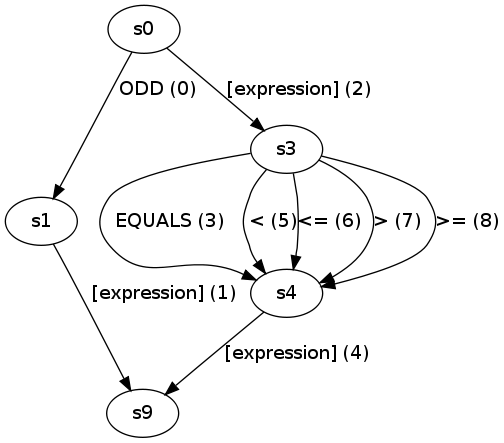
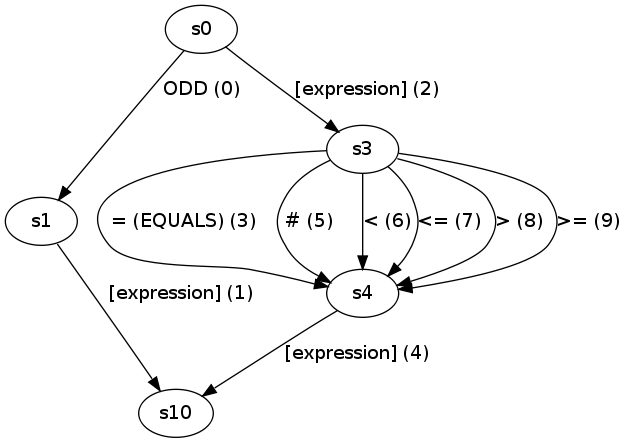
Add support for NotEqual operator

diff --git a/parser.cpp b/parser.cpp
@@ -191,15 +191,16 @@ Transition s_Factor[] = {
 
 Transition s_Condition[] = {
  /* 0*/ { SymbolTransition,  {(unsigned long)Token::OddSymbol},              1,  2, HandlerBase::ActionConditionState0 },
- /* 1*/ { GraphTransition,   {(unsigned long)3},                             9, -1, HandlerBase::ActionConditionState1 },
+ /* 1*/ { GraphTransition,   {(unsigned long)3},                            10, -1, HandlerBase::ActionConditionState1 },
  /* 2*/ { GraphTransition,   {(unsigned long)3},                             3, -1, HandlerBase::ActionConditionState2 },
  /* 3*/ { SymbolTransition,  {(unsigned long)Token::EqualsSymbol},           4,  5, HandlerBase::ActionConditionState3 },
- /* 4*/ { GraphTransition,   {(unsigned long)3},                             9, -1, HandlerBase::ActionConditionState4 },
- /* 5*/ { SymbolTransition,  {(unsigned long)Token::LessThanSymbol},         4,  6, HandlerBase::ActionConditionState5 },
- /* 6*/ { SymbolTransition,  {(unsigned long)Token::LessThanEqualSymbol},    4,  7, HandlerBase::ActionConditionState6 },
- /* 7*/ { SymbolTransition,  {(unsigned long)Token::GreaterThanSymbol},      4,  8, HandlerBase::ActionConditionState7 },
- /* 8*/ { SymbolTransition,  {(unsigned long)Token::GreaterThanEqualSymbol}, 4, -1, HandlerBase::ActionConditionState8 },
- /* 9*/ { EndTransition,     {(unsigned long)0},                             0, -1, HandlerBase::ActionConditionState9 }
+ /* 4*/ { GraphTransition,   {(unsigned long)3},                            10, -1, HandlerBase::ActionConditionState4 },
+ /* 5*/ { SymbolTransition,  {(unsigned long)Token::UnequalSymbol},          4,  6, HandlerBase::ActionConditionState5 },
+ /* 6*/ { SymbolTransition,  {(unsigned long)Token::LessThanSymbol},         4,  7, HandlerBase::ActionConditionState6 },
+ /* 7*/ { SymbolTransition,  {(unsigned long)Token::LessThanEqualSymbol},    4,  8, HandlerBase::ActionConditionState7 },
+ /* 8*/ { SymbolTransition,  {(unsigned long)Token::GreaterThanSymbol},      4,  9, HandlerBase::ActionConditionState8 },
+ /* 9*/ { SymbolTransition,  {(unsigned long)Token::GreaterThanEqualSymbol}, 4, -1, HandlerBase::ActionConditionState9 },
+ /*10*/ { EndTransition,     {(unsigned long)0},                             0, -1, HandlerBase::ActionConditionState10 }
 };
 
 Transition* s_graphs[] = {

diff --git a/codegenerationhandler.cpp b/codegenerationhandler.cpp
@@ -194,6 +194,7 @@ bool CodeGenerationHandler::actionConditionState4()
 {
   switch( mComparisonSymbol ) {
     case Token::EqualsSymbol: mWriter->writeOperation( CodeWriter::CompareEqual ); break;
+    case Token::UnequalSymbol: mWriter->writeOperation( CodeWriter::CompareNotEqual ); break;
     case Token::LessThanSymbol: mWriter->writeOperation( CodeWriter::CompareLessThan ); break;
     case Token::GreaterThanSymbol: mWriter->writeOperation( CodeWriter::CompareGreaterThan ); break;
     case Token::LessThanEqualSymbol: mWriter->writeOperation( CodeWriter::CompareLessThanEqual ); break;
@@ -206,26 +207,33 @@ bool CodeGenerationHandler::actionConditionState4()
 // COMP IDENTIFIER
 bool CodeGenerationHandler::actionConditionState5()
 {
-  mComparisonSymbol = Token::LessThanSymbol;
+  mComparisonSymbol = Token::UnequalSymbol;
   return true;
 }
 
 // COMP IDENTIFIER
 bool CodeGenerationHandler::actionConditionState6()
 {
-  mComparisonSymbol = Token::LessThanEqualSymbol;
+  mComparisonSymbol = Token::LessThanSymbol;
   return true;
 }
 
 // COMP IDENTIFIER
 bool CodeGenerationHandler::actionConditionState7()
 {
-  mComparisonSymbol = Token::GreaterThanSymbol;
+  mComparisonSymbol = Token::LessThanEqualSymbol;
   return true;
 }
 
 // COMP IDENTIFIER
 bool CodeGenerationHandler::actionConditionState8()
+{
+  mComparisonSymbol = Token::GreaterThanSymbol;
+  return true;
+}
+
+// COMP IDENTIFIER
+bool CodeGenerationHandler::actionConditionState9()
 {
   mComparisonSymbol = Token::GreaterThanEqualSymbol;
   return true;

diff --git a/tokenizer.cpp b/tokenizer.cpp
@@ -39,7 +39,7 @@ StateTableEntry s_stateTable[6][8] = {
 int s_inputMap[] = {
 /* 0x00 */ -1, -2, -2, -2, -2, -2, -2, -2, -2, -2,  7, -2, -2,  7, -2, -2,
 /* 0x10 */ -2, -2, -2, -2, -2, -2, -2, -2, -2, -2, -2, -2, -2, -2, -2, -2,
-/* 0x20 */  7,  0, -2, -2, -2, -2, -2, -2,  0,  0,  0,  0,  0,  0,  0,  0,
+/* 0x20 */  7,  0, -2,  0, -2, -2, -2, -2,  0,  0,  0,  0,  0,  0,  0,  0,
 /* 0x30 */  1,  1,  1,  1,  1,  1,  1,  1,  1,  1,  3,  0,  5,  4,  6,  0,
 /* 0x40 */ -2,  2,  2,  2,  2,  2,  2,  2,  2,  2,  2,  2,  2,  2,  2,  2,
 /* 0x50 */  2,  2,  2,  2,  2,  2,  2,  2,  2,  2,  2, -2, -2, -2, -2, -2,
@@ -104,6 +104,7 @@ void Tokenizer::operationFinish( char character )
         case '(': mCurrentToken.setSymbolValue( Token::OpenBracketSymbol ); break;
         case ')': mCurrentToken.setSymbolValue( Token::CloseBracketSymbol ); break;
         case '=': mCurrentToken.setSymbolValue( Token::EqualsSymbol ); break;
+        case '#': mCurrentToken.setSymbolValue( Token::UnequalSymbol ); break;
       }
       break;
     case 1:

diff --git a/token.cpp b/token.cpp
@@ -102,8 +102,9 @@ QString Token::symbolName( SymbolType symbol )
     case Token::WhileSymbol: return "WHILE"; break;
     case Token::DoSymbol: return "DO"; break;
     case Token::OddSymbol: return "ODD"; break;
-    case Token::EqualsSymbol: return "EQUALS"; break;
-    case Token::AssignSymbol: return "ASSIGN"; break;
+    case Token::EqualsSymbol: return "= (EQUALS)"; break;
+    case Token::UnequalSymbol: return "#"; break;
+    case Token::AssignSymbol: return "= (ASSIGN)"; break;
     case Token::LessThanSymbol: return "<"; break;
     case Token::LessThanEqualSymbol: return "<="; break;
     case Token::GreaterThanSymbol: return ">"; break;

diff --git a/handlerbase.cpp b/handlerbase.cpp
@@ -111,6 +111,8 @@ bool HandlerBase::executeAction( ActionType type )
     case ActionConditionState7: return actionConditionState7(); break;
     case ActionConditionState8: return actionConditionState8(); break;
     case ActionConditionState9: return actionConditionState9(); break;
+    case ActionConditionState10: return actionConditionState10(); break;
+    default: Q_ASSERT(false); break;
   }
 
   return false;
@@ -517,6 +519,11 @@ bool HandlerBase::actionConditionState8()
 }
 
 bool HandlerBase::actionConditionState9()
+{
+  return true;
+}
+
+bool HandlerBase::actionConditionState10()
 {
   return true;
 }

diff --git a/handlerbase.h b/handlerbase.h
@@ -96,6 +96,7 @@ class HandlerBase
       ActionConditionState7,
       ActionConditionState8,
       ActionConditionState9,
+      ActionConditionState10,
     };
 
     HandlerBase();
@@ -197,6 +198,7 @@ class HandlerBase
     virtual bool actionConditionState7();
     virtual bool actionConditionState8();
     virtual bool actionConditionState9();
+    virtual bool actionConditionState10();
 
   private:
     Token mCurrentToken;    

diff --git a/codegenerationhandler.h b/codegenerationhandler.h
@@ -77,6 +77,8 @@ class CodeGenerationHandler : public HandlerBase
     virtual bool actionConditionState7();
     // COMP IDENTIFIER
     virtual bool actionConditionState8();
+    // COMP IDENTIFIER
+    virtual bool actionConditionState9();
 
   private:
     IdentifierManager *mManager;

diff --git a/codewriter.h b/codewriter.h
@@ -25,7 +25,7 @@ class CodeWriter
       Mul = 14,
       Div = 15,
       CompareEqual = 16,
-      // omit CompareNotEqual
+      CompareNotEqual = 17,
       CompareLessThan = 18,
       CompareGreaterThan = 19,
       CompareLessThanEqual = 20,

diff --git a/main.cpp b/main.cpp
@@ -28,7 +28,7 @@ int main( int argc, char **argv )
 
 #ifdef TOKENIZER
   Tokenizer tokenizer;
-  tokenizer.load(&file);
+  tokenizer.load(&inputFile);
 
   Token token = tokenizer.nextToken();
   while (token.type() != Token::EndToken) {

diff --git a/token.h b/token.h
@@ -40,6 +40,7 @@ class Token
       DoSymbol,
       OddSymbol,
       EqualsSymbol,
+      UnequalSymbol,
       AssignSymbol,
       LessThanSymbol,
       LessThanEqualSymbol,
